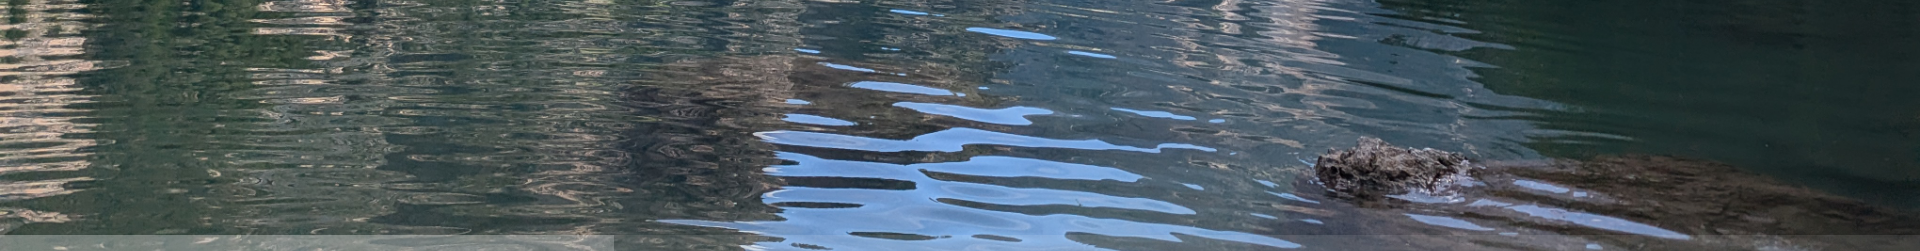
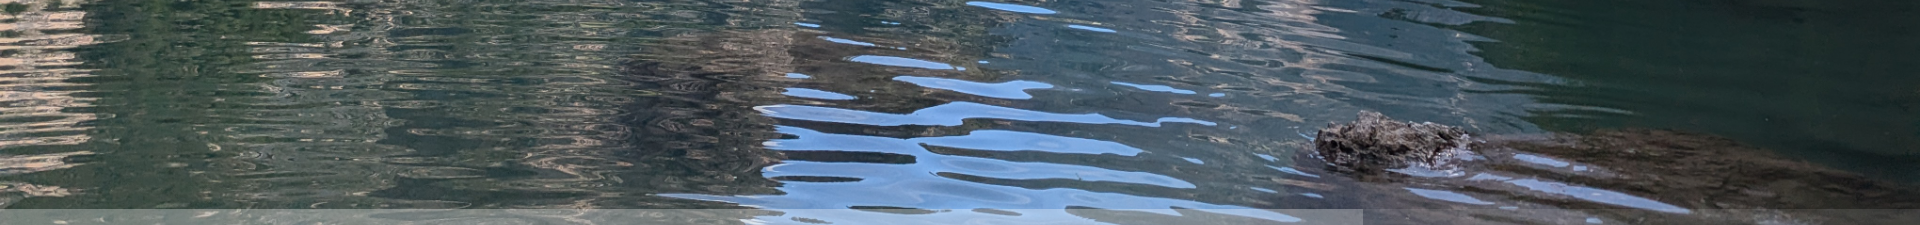
Update one of the screenshots.

diff --git a/README.md b/README.md
@@ -3,6 +3,9 @@
 This plasmoid (KDE Plasma widget) displays your current battery charge with a transparent progress bar.
 
 ![screenshot 1](data/screenshot1.png)
+
+The stripe at the bottom:
+
 ![screenshot 2](data/screenshot2.png)
 
 ## Installation and Usage
